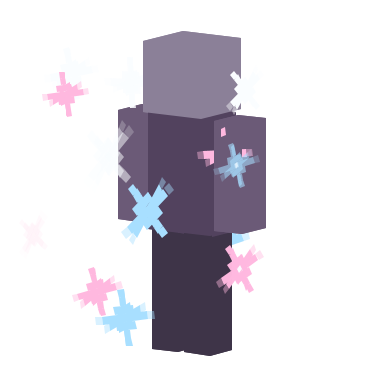
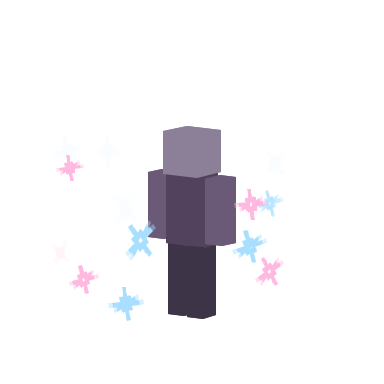
Give auras more clearance around the player

Changed region(s): [[0.1875, 0.0625, 0.75, 0.9375], [0.0938, 0.1875, 0.25, 0.3125], [0.1562, 0.4062, 0.2188, 0.4688]]

diff --git a/src/main/java/com/axial/cosmetics/client/HexwindGeometry.java b/src/main/java/com/axial/cosmetics/client/HexwindGeometry.java
@@ -16,7 +16,7 @@ public final class HexwindGeometry {
         var mesh=new ArrayList<Quad>();int segments=detailed?32:16;
         for(int band=0;band<3;band++) {
             double start=phase*(band==1?-1:1)+band*2.15;
-            double radius=.75+band*.045,base=.32+band*.59;
+            double radius=1.15+band*.045,base=.32+band*.59;
             for(int segment=0;segment<segments;segment++) {
                 double t=segment/(double)segments,next=(segment+1.0)/segments;
                 double a=start+t*Math.PI*1.4,b=start+next*Math.PI*1.4;
@@ -31,15 +31,15 @@ public final class HexwindGeometry {
         }
         for(int bat=0;bat<2;bat++) {
             double angle=phase+bat*Math.PI,flap=Math.sin(phase*6+bat)*.75;
-            double radius=.91,height=.72+bat*.52+Math.sin(phase*2+bat)*.08;
+            double radius=1.37,height=.72+bat*.52+Math.sin(phase*2+bat)*.08;
             bat(mesh,angle,radius,height,flap);
         }
-        pumpkin(mesh,phase+.8,.94,.78+Math.sin(phase*2)*.1);
+        pumpkin(mesh,phase+.8,1.40,.78+Math.sin(phase*2)*.1);
         int motes=detailed?8:4;
         for(int i=0;i<motes;i++) {
             double angle=phase*(i%2==0?1:-1)+i*2.39996;
             double height=.14+(i%6)*.31+Math.sin(phase*2+i)*.06;
-            Point center=orbit(angle,.85+(i%3)*.04,height);double size=i%3==0?.038:.023;
+            Point center=orbit(angle,1.25+(i%3)*.04,height);double size=i%3==0?.038:.023;
             square(mesh,center,size,i%3==0?0xD9EBA14A:0xA68E63B7);
         }
         return List.copyOf(mesh);

diff --git a/src/test/java/com/axial/cosmetics/client/PixelStarsAuraTest.java b/src/test/java/com/axial/cosmetics/client/PixelStarsAuraTest.java
@@ -20,7 +20,7 @@ class PixelStarsAuraTest {
         e.tick(1,1000000.2,64,-1000000);var first=e.stars().getFirst();
         for(int t=2;t<12;t++)e.tick(t,1000000+t*.2,64,-1000000);
         assertEquals(first,e.stars().getFirst(),"New player positions must not drag old stars along");
-        assertTrue(first.x()<1000001);
+        assertTrue(Math.abs(first.x()-1000000)<1.3);
         e.tick(12,2000000,70,2000000);assertTrue(e.stars().isEmpty());
         e.tick(13,2000000.2,70,2000000);assertFalse(e.stars().isEmpty());
         e.tick(20,2000000.4,70,2000000);assertTrue(e.stars().isEmpty(),"A gap in tracking cannot create a long bridge");
@@ -40,7 +40,7 @@ class PixelStarsAuraTest {
             assertTrue(PixelStarsGeometry.frame(t,false).size()<mesh.size());
             for(var q:mesh){colors.add(q.color()&0xffffff);for(var p:List.of(q.a(),q.b(),q.c(),q.d())){
                 assertTrue(Float.isFinite(p.x())&&Float.isFinite(p.y())&&Float.isFinite(p.z()));
-                assertTrue(Math.abs(p.x())<2&&Math.abs(p.z())<2.5&&p.y()>-.5&&p.y()<2.5);
+                assertTrue(Math.abs(p.x())<2.3&&Math.abs(p.z())<3&&p.y()>-.5&&p.y()<2.5);
             }}
         }
         assertEquals(Set.of(0xFAFDFF,0xA8DFFF,0xFFB8DF),colors);

diff --git a/src/test/java/com/axial/cosmetics/client/AuraSpacingTest.java b/src/test/java/com/axial/cosmetics/client/AuraSpacingTest.java
@@ -1,0 +1,24 @@
+package com.axial.cosmetics.client;
+
+import java.util.*;
+import org.junit.jupiter.api.Test;
+import static org.junit.jupiter.api.Assertions.*;
+
+class AuraSpacingTest {
+    private void clearBody(List<HexwindGeometry.Quad> mesh,double clearance){
+        for(var q:mesh)for(var p:List.of(q.a(),q.b(),q.c(),q.d()))assertTrue(Math.hypot(p.x(),p.z())>clearance,"Aura geometry crowds the torso: "+p);
+    }
+    @Test void orbitingEffectsLeaveSpaceAroundTheTorso(){
+        for(float t=0;t<120;t+=3){
+            clearBody(HexwindGeometry.frame(t,true),1.0);
+            clearBody(GoldSparkGeometry.frame(t,true),.70);
+            clearBody(PixelSnowflakesGeometry.frame(t,true),.70);
+        }
+    }
+    @Test void starBirthsStartOutsideTheBodyWithoutChangingTheirWorldSpaceTrail(){
+        var e=new PixelStarsEmitter(new UUID(20,21));e.tick(0,0,0,0);e.tick(1,.1,0,0);
+        assertFalse(e.stars().isEmpty());
+        for(var s:e.stars())assertTrue(Math.hypot(s.x()-.05,s.z())>.75);
+        var first=e.stars().getFirst();e.tick(2,.2,0,0);assertEquals(first,e.stars().getFirst());
+    }
+}

diff --git a/src/main/java/com/axial/cosmetics/client/PixelStarsEmitter.java b/src/main/java/com/axial/cosmetics/client/PixelStarsEmitter.java
@@ -20,7 +20,7 @@ final class PixelStarsEmitter {
         if(speed>.008){
             int count=Math.min(4,Math.max(2,(int)Math.ceil(speed*10)));
             for(int i=0;i<count;i++){
-                double blend=(i+random.nextDouble())/count,angle=random.nextDouble()*Math.PI*2,radius=.22+random.nextDouble()*.16,drift=.016+random.nextDouble()*.016;
+                double blend=(i+random.nextDouble())/count,angle=random.nextDouble()*Math.PI*2,radius=.82+random.nextDouble()*.16,drift=.016+random.nextDouble()*.016;
                 stars.add(new PixelStarsGeometry.Star(x+(nx-x)*blend+Math.cos(angle)*radius,y+(ny-y)*blend+.12+random.nextDouble()*1.65,z+(nz-z)*blend+Math.sin(angle)*radius,
                         Math.cos(angle)*drift,.008+random.nextDouble()*.014,Math.sin(angle)*drift,tick-1+blend,18+random.nextDouble()*8,.10f+random.nextFloat()*.05f,PixelStarsGeometry.COLORS[sequence++%3],random.nextFloat()*.8f));
             }

diff --git a/tools/GeneratePixelSnowflakesPreview.java b/tools/GeneratePixelSnowflakesPreview.java
@@ -36,9 +36,9 @@ public class GeneratePixelSnowflakesPreview {
         box(mesh,.02f,0,-.12f,.2f,.74f,.24f,0xff3e3448);
         mesh.addAll(PixelSnowflakesGeometry.frame(ticks,true));
         mesh.sort(Comparator.comparingDouble((Quad q)->(depth(q.a())+depth(q.b())+depth(q.c())+depth(q.d()))/4).reversed());
-        double scale=size*.36;
+        double scale=size*.30;
         for(Quad q:mesh) {
-            Polygon polygon=new Polygon();for(Point v:List.of(q.a(),q.b(),q.c(),q.d()))polygon.addPoint((int)Math.round(size*.5+sx(v)*scale),(int)Math.round(size*.91-sy(v)*scale));
+            Polygon polygon=new Polygon();for(Point v:List.of(q.a(),q.b(),q.c(),q.d()))polygon.addPoint((int)Math.round(size*.5+sx(v)*scale),(int)Math.round(size*.82-sy(v)*scale));
             g.setColor(new Color(q.color(),true));g.fillPolygon(polygon);
         }
         g.dispose();return image;

diff --git a/tools/GeneratePixelStarsPreview.java b/tools/GeneratePixelStarsPreview.java
@@ -36,9 +36,9 @@ public class GeneratePixelStarsPreview {
         box(mesh,.02f,0,-.12f,.2f,.74f,.24f,0xff3e3448);
         mesh.addAll(PixelStarsGeometry.frame(ticks,true));
         mesh.sort(Comparator.comparingDouble((Quad q)->(depth(q.a())+depth(q.b())+depth(q.c())+depth(q.d()))/4).reversed());
-        double scale=size*.42;
+        double scale=size*.25;
         for(Quad q:mesh) {
-            Polygon polygon=new Polygon();for(Point v:List.of(q.a(),q.b(),q.c(),q.d()))polygon.addPoint((int)Math.round(size*.5+sx(v)*scale),(int)Math.round(size*.91-sy(v)*scale));
+            Polygon polygon=new Polygon();for(Point v:List.of(q.a(),q.b(),q.c(),q.d()))polygon.addPoint((int)Math.round(size*.5+sx(v)*scale),(int)Math.round(size*.82-sy(v)*scale));
             g.setColor(new Color(q.color(),true));g.fillPolygon(polygon);
         }
         g.dispose();return image;

diff --git a/tools/GenerateGoldSparkPreview.java b/tools/GenerateGoldSparkPreview.java
@@ -36,9 +36,9 @@ public class GenerateGoldSparkPreview {
         box(mesh,.02f,0,-.12f,.2f,.74f,.24f,0xff3e3448);
         mesh.addAll(GoldSparkGeometry.frame(ticks,true));
         mesh.sort(Comparator.comparingDouble((Quad q)->(depth(q.a())+depth(q.b())+depth(q.c())+depth(q.d()))/4).reversed());
-        double scale=size*.42;
+        double scale=size*.30;
         for(Quad q:mesh) {
-            Polygon polygon=new Polygon();for(Point v:List.of(q.a(),q.b(),q.c(),q.d()))polygon.addPoint((int)Math.round(size*.5+sx(v)*scale),(int)Math.round(size*.91-sy(v)*scale));
+            Polygon polygon=new Polygon();for(Point v:List.of(q.a(),q.b(),q.c(),q.d()))polygon.addPoint((int)Math.round(size*.5+sx(v)*scale),(int)Math.round(size*.82-sy(v)*scale));
             g.setColor(new Color(q.color(),true));g.fillPolygon(polygon);
         }
         g.dispose();return image;

diff --git a/tools/GenerateHexwindPreview.java b/tools/GenerateHexwindPreview.java
@@ -36,9 +36,9 @@ public class GenerateHexwindPreview {
         box(mesh,.02f,0,-.12f,.2f,.74f,.24f,0xff3e3448);
         mesh.addAll(HexwindGeometry.frame(ticks,true));
         mesh.sort(Comparator.comparingDouble((Quad q)->(depth(q.a())+depth(q.b())+depth(q.c())+depth(q.d()))/4).reversed());
-        double scale=size*.42;
+        double scale=size*.28;
         for(Quad q:mesh) {
-            Polygon polygon=new Polygon();for(Point v:List.of(q.a(),q.b(),q.c(),q.d()))polygon.addPoint((int)Math.round(size*.5+sx(v)*scale),(int)Math.round(size*.91-sy(v)*scale));
+            Polygon polygon=new Polygon();for(Point v:List.of(q.a(),q.b(),q.c(),q.d()))polygon.addPoint((int)Math.round(size*.5+sx(v)*scale),(int)Math.round(size*.82-sy(v)*scale));
             g.setColor(new Color(q.color(),true));g.fillPolygon(polygon);
         }
         g.dispose();return image;

diff --git a/src/main/java/com/axial/cosmetics/client/PixelStarsGeometry.java b/src/main/java/com/axial/cosmetics/client/PixelStarsGeometry.java
@@ -47,7 +47,7 @@ public final class PixelStarsGeometry {
         double time=ticks-Math.floor(ticks/PERIOD)*PERIOD;var stars=new ArrayList<Star>();var random=new Random(0x57A25);
         for(int i=0;i<72;i++){
             double birth=i*PERIOD/72.0,life=17+random.nextDouble()*8,age=(time-birth+PERIOD)%PERIOD;
-            double angle=random.nextDouble()*Math.PI*2,radius=.28+random.nextDouble()*.12;
+            double angle=random.nextDouble()*Math.PI*2,radius=.82+random.nextDouble()*.16;
             stars.add(new Star(Math.cos(angle)*radius,.15+random.nextDouble()*1.65,Math.sin(angle)*radius+age*.035,
                     Math.cos(angle)*.019,.009+random.nextDouble()*.012,Math.sin(angle)*.019,time-age,life,.10f+random.nextFloat()*.045f,COLORS[i%3],random.nextFloat()*.7f));
         }

diff --git a/src/main/java/com/axial/cosmetics/client/WardrobeModelView.java b/src/main/java/com/axial/cosmetics/client/WardrobeModelView.java
@@ -11,7 +11,7 @@ record WardrobeModelView(float scale,float centerY) {
 
     static WardrobeModelView fit(WardrobeItem item,Rect bounds,boolean card) {
         float height=2.05f,width=1.05f,center=.9f;
-        if(item!=null&&item.aura()!=null) {height=2.9f;width=2.6f;center=.95f;}
+        if(item!=null&&item.aura()!=null) {height=2.9f;width=item.aura()==WardrobeAura.PIXEL_STARS?4.6f:3.7f;center=.95f;}
         else if(card&&item!=null&&(item.accessory()==WardrobeAccessory.WHITE_KICKS||item.accessory()==WardrobeAccessory.WHITE_SNEAKERS||item.accessory()==WardrobeAccessory.BLACK_SNEAKERS)) {
             height=.95f;width=1.05f;center=.38f;
         } else if(card&&item!=null&&(item.accessory()==WardrobeAccessory.SWIM_BANDS||item.accessory()==WardrobeAccessory.RIBCAGE)) {

diff --git a/src/main/java/com/axial/cosmetics/client/PixelSnowflakesGeometry.java b/src/main/java/com/axial/cosmetics/client/PixelSnowflakesGeometry.java
@@ -15,7 +15,7 @@ public final class PixelSnowflakesGeometry {
     private static final List<Run> SHAPE;
     static {
         var random=new Random(0x5A0F1A);var flakes=new ArrayList<Flake>();
-        for(int i=0;i<28;i++)flakes.add(new Flake((i+random.nextDouble()*.65)/28,random.nextDouble()*Math.PI*2,.57+random.nextDouble()*.30,
+        for(int i=0;i<28;i++)flakes.add(new Flake((i+random.nextDouble()*.65)/28,random.nextDouble()*Math.PI*2,1.00+random.nextDouble()*.30,
                 random.nextDouble()*Math.PI*2,.14f+random.nextFloat()*.05f,(random.nextFloat()-.5f)*1.7f,random.nextFloat()*(float)Math.PI*2,random.nextFloat()*(float)Math.PI*2,random.nextBoolean()?1:-1));
         FLAKES=List.copyOf(flakes);
         boolean[][] pixels=new boolean[13][13];

diff --git a/src/test/java/com/axial/cosmetics/client/HexwindAuraTest.java b/src/test/java/com/axial/cosmetics/client/HexwindAuraTest.java
@@ -12,7 +12,7 @@ class HexwindAuraTest {
             var mesh=HexwindGeometry.frame(t,true);assertTrue(mesh.size()>150&&mesh.size()<350);
             for(var quad:mesh)for(var p:List.of(quad.a(),quad.b(),quad.c(),quad.d())) {
                 assertTrue(Float.isFinite(p.x())&&Float.isFinite(p.y())&&Float.isFinite(p.z()));
-                assertTrue(Math.abs(p.x())<1.4&&Math.abs(p.z())<1.4);assertTrue(p.y()>-.1&&p.y()<2.1);
+                assertTrue(Math.abs(p.x())<1.8&&Math.abs(p.z())<1.8);assertTrue(p.y()>-.1&&p.y()<2.1);
             }
         }
         assertEquals(HexwindGeometry.frame(0,true),HexwindGeometry.frame(HexwindGeometry.PERIOD,true));
